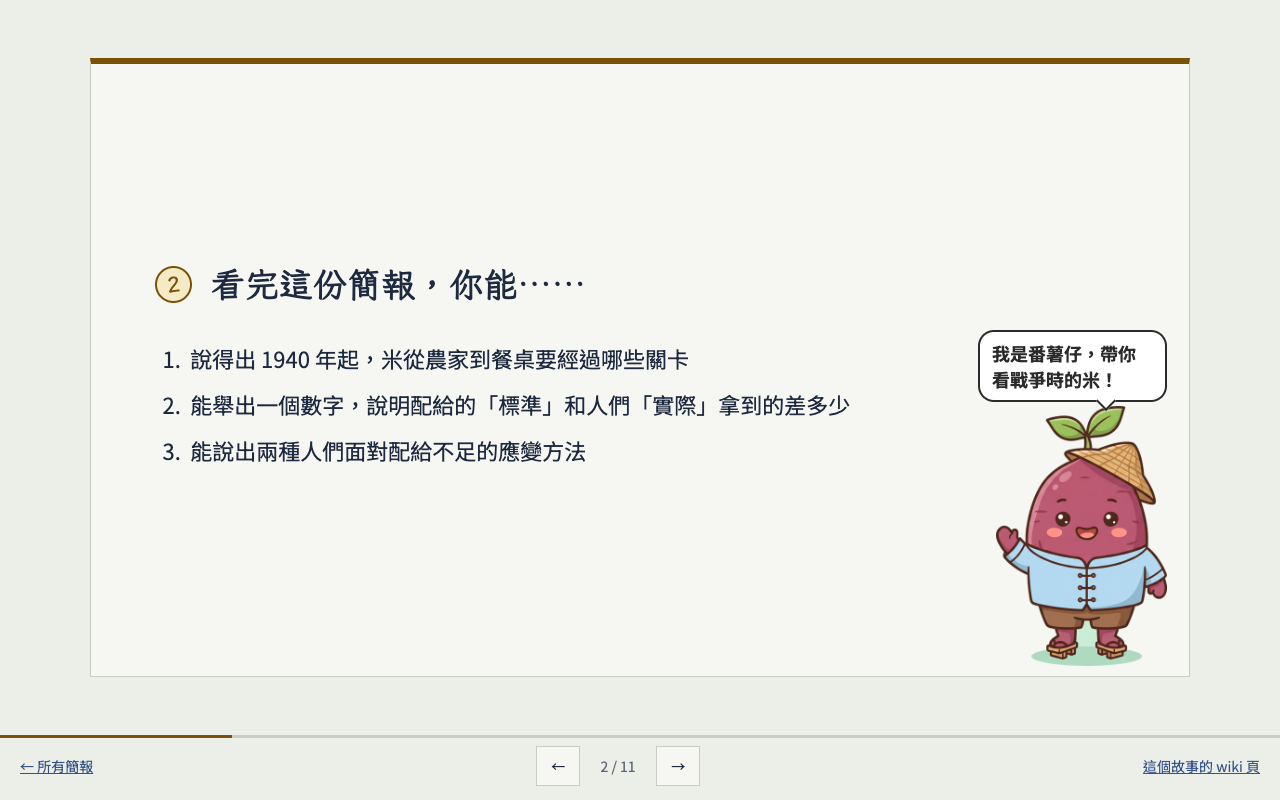
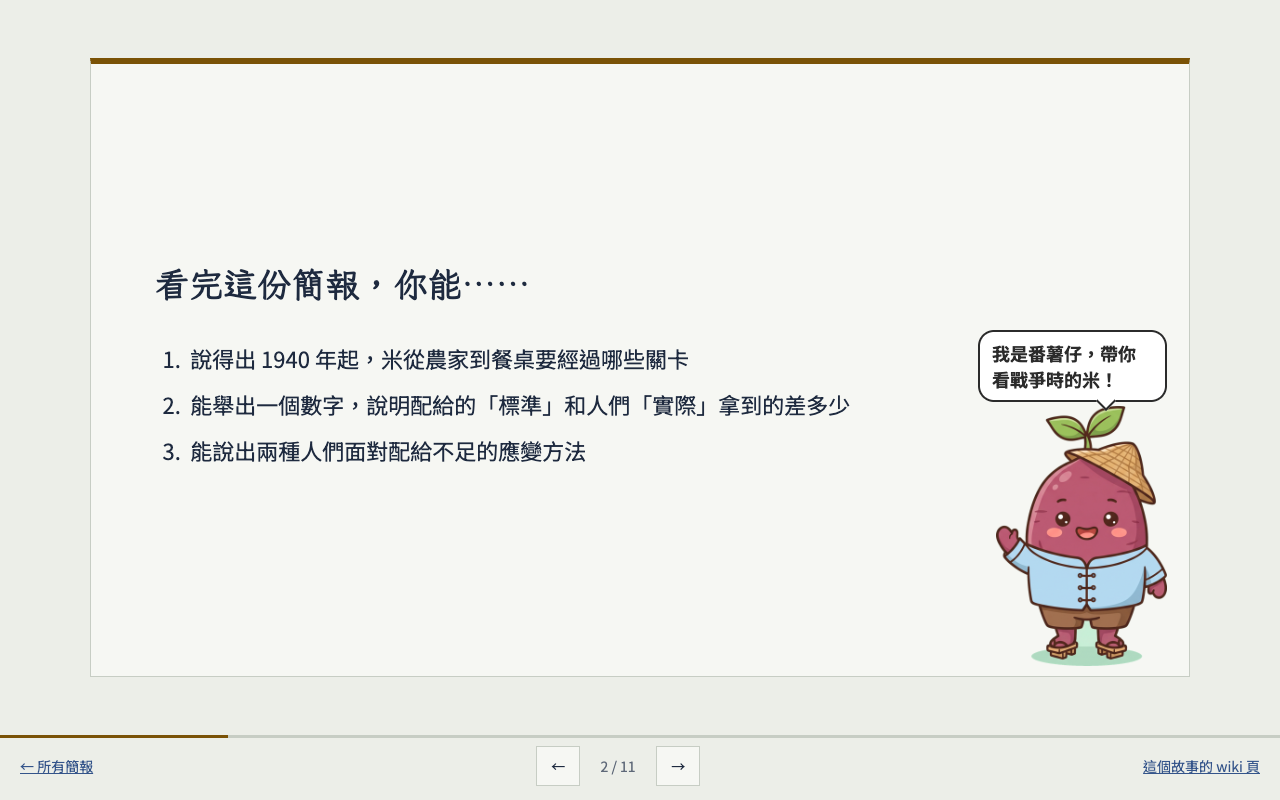
拿掉標題前重複的頁碼印

Changed region(s): [[0.125, 0.3125, 0.4062, 0.375]]

diff --git a/slides/t-rice-ration/deck.html b/slides/t-rice-ration/deck.html
@@ -33,10 +33,6 @@ p{margin:0 0 .7em;max-width:36em} strong{color:var(--cat-ink)}
 .nb{white-space:nowrap}
 .fn{color:var(--indigo);text-decoration:none;padding:0 .08em}
 .fn:hover{text-decoration:underline}
-/* 頁碼印：每頁標題前一個圓形配給印，全份簡報唯一的裝飾 */
-h2{display:flex;align-items:center;gap:.55em}
-h2 .no{flex:none;width:1.75em;height:1.75em;border-radius:50%;border:2px solid var(--cat-ink);color:var(--cat-ink);display:grid;place-items:center;
-  font-size:.62em;font-variant-numeric:tabular-nums;transform:rotate(-8deg);background:color-mix(in srgb,var(--cat-tint) 45%,transparent)}
 /* 資料來源頁 */
 .layout-sources .inner{font-size:clamp(13px,1.25vw,16px);line-height:1.5;justify-content:flex-start;padding:30px 56px}
 .src-hint{color:var(--muted);font-size:.9em;margin-bottom:.9em}
@@ -114,16 +110,16 @@ figcaption{font-size:.8em;color:var(--muted)}
 <body data-cat="rice">
 <main class="deck" id="deck">
 <section class="slide layout-cover" id="p1" aria-label="第 1 頁"><div class="inner"><div class="cover"><div class="ticket"><span class="stub">主</span><div><p class="series">戰時餐桌・故事簡報</p><h1>一天能吃多少米？</h1><p class="sub">1940 年起，農家多的米要交給政府，大家吃的米由政府來分配。</p><p class="meta">臺灣 1939–1945　·　共 10 頁　·　用 ← → 或滑動翻頁</p></div></div><img class="cover-img" src="../../assets/img/t-rice-ration.jpg" alt="木刻版畫風插畫：田邊的收購場，農民挑著稻穀排隊，辦事員用大秤秤重、登記。"></div></div></section>
-<section class="slide layout-goals" data-mascot="../../assets/mascots/sweetpotato/wave.png" data-spot="br" data-say="我是番薯仔，帶你看戰爭時的米！" id="p2" aria-label="第 2 頁"><div class="inner"><h2><span class="no" aria-hidden="true">2</span>看完這份簡報，你能……</h2><ol class='goals'><li>說得出 1940 年起，米從農家到餐桌要經過哪些關卡</li><li>能舉出一個數字，說明配給的「標準」和人們「實際」拿到的差多少</li><li>能說出兩種人們面對配給不足的應變方法</li></ol></div></section>
-<section class="slide layout-text" id="p3" aria-label="第 3 頁"><div class="inner"><h2><span class="no" aria-hidden="true">3</span>為什麼 1940 年開始管米？</h2><p>1939 年朝鮮大旱，隔年朝鮮運到日本的米，從 5,690 千石掉到 395 千石（石是當時量米的容量單位）<span class="nb">。<sup class="fns"><a class="fn" href="#sources" title="李力庸 2009，頁 77">1</a></sup></span></p><p>日本只好要臺灣補上缺口：1940 年臺灣要運出 5,000 千石，比前一年更多<span class="nb">。<sup class="fns"><a class="fn" href="#sources" title="李力庸 2009，頁 77–78">1</a></sup></span></p><p>同年 5 月，臺灣總督府宣布：一期稻作的米全部由政府管理<span class="nb">。<sup class="fns"><a class="fn" href="#sources" title="黃仁姿 2017，頁 46–47">2</a></sup></span></p><p>日本本土要到 10 月才跟進，<strong>殖民地反而比本土早一步</strong><span class="nb">。<sup class="fns"><a class="fn" href="#sources" title="黃仁姿 2017，頁 47">2</a></sup></span></p></div></section>
-<section class="slide layout-text" data-mascot="../../assets/mascots/pig/ticket.png" data-spot="br" data-say="有這張券，才買得到米喔！" id="p4" aria-label="第 4 頁"><div class="inner"><h2><span class="no" aria-hidden="true">4</span>米從田裡到餐桌的關卡</h2><p><strong>收米</strong>：農家扣掉自己要吃的和種子，其餘由政府用公定價格強制收購<span class="nb">。<sup class="fns"><a class="fn" href="#sources" title="曾品滄 2017，頁 9">3</a></sup></span></p><p><strong>綁住</strong>：沒交足規定的量，就領不到配給<span class="nb">。<sup class="fns"><a class="fn" href="#sources" title="曾獻緯 2015，頁 59">4</a></sup></span></p><p><strong>盯著</strong>：經濟警察負責確保糧食配給、限制自由買賣<span class="nb">。<sup class="fns"><a class="fn" href="#sources" title="陸文楓 2025，頁 47">5</a></sup></span></p><p><strong>分米</strong>：1943 年底起，配給交給新成立、專管糧食配給的「台灣食糧營團」，收購由農業會負責<span class="nb">。<sup class="fns"><a class="fn" href="#sources" title="李力庸 2009，頁 97">1</a>,<a class="fn" href="#sources" title="黃仁姿、薛化元 2019，頁 133">6</a></sup></span></p><p><strong>買米</strong>：一般家庭拿著配給券，大約一個月去買兩次米<span class="nb">。<sup class="fns"><a class="fn" href="#sources" title="李力庸 2009，頁 93">1</a></sup></span></p></div></section>
-<section class="slide layout-number" data-mascot="../../assets/mascots/pig/sack.png" data-spot="bl" data-say="辛苦種的米，大部分都要交出去？" id="p5" aria-label="第 5 頁"><div class="inner"><h2><span class="no" aria-hidden="true">5</span>收成的米，有多少要交出去？</h2><p class="big"><span class="stamp-num">85.30%</span><span class="big-label">1944 年，臺灣的米交給政府的比例</span></p><p>這個比例叫「供出率」：交給政府的量，占實際收成的多少<span class="nb">。<sup class="fns"><a class="fn" href="#sources" title="李力庸 2009，頁 94">1</a></sup></span></p><p>同一年，朝鮮是 63.47%，日本本土是 60.46%，<strong>臺灣最高</strong><span class="nb">。<sup class="fns"><a class="fn" href="#sources" title="李力庸 2009，頁 94">1</a></sup></span></p></div></section>
-<section class="slide layout-number" id="p6" aria-label="第 6 頁"><div class="inner"><h2><span class="no" aria-hidden="true">6</span>一般成年人一天配到多少米？</h2><p class="big"><span class="stamp-num">330 公克</span><span class="big-label">1942 年起，一般成年人每天的配給標準（七分搗米）</span></p><p>米的配給量，最初是照營養學家推算的每日所需熱量的<strong>八成</strong>來訂的<span class="nb">。<sup class="fns"><a class="fn" href="#sources" title="曾品滄 2017，頁 10">3</a></sup></span></p><p>工作越重配越多：重勞動者 520 公克，輕勞動者、青少年、孕婦 390 公克<span class="nb">。<sup class="fns"><a class="fn" href="#sources" title="曾品滄 2017，頁 10">3</a></sup></span></p><p>330 公克的七分搗米約是 2 合 3 勺；臺灣用糙米（只去殼、沒碾白的米）計算，就是 <strong>2 合 5 勺</strong><span class="nb">。<sup class="fns"><a class="fn" href="#sources" title="黃仁姿 2017，頁 41 註 17">2</a></sup></span></p></div></section>
-<section class="slide layout-text" data-mascot="../../assets/mascots/rice/bowl.png" data-spot="br" data-say="碗裡的飯，怎麼越來越少……" id="p7" aria-label="第 7 頁"><div class="inner"><h2><span class="no" aria-hidden="true">7</span>標準一路往下砍，實際拿到的更少</h2><p>標準：一般人每天糙米 2 合 5 勺，寫成小數是 2.50 合（「勺」是比「合」小的單位）<span class="nb">。<sup class="fns"><a class="fn" href="#sources" title="黃仁姿 2017，頁 51">2</a>,<a class="fn" href="#sources" title="曾品滄 2017，頁 10">3</a></sup></span></p><p>1940 年 3 月，新竹市把一般人的配給從 2 合 5 勺減成 2 合 2 勺<span class="nb">。<sup class="fns"><a class="fn" href="#sources" title="曾品滄 2017，頁 11">3</a></sup></span></p><p>4 月，澎湖一般人只配 2 合，產米的屏東更只有 1.7 合<span class="nb">。<sup class="fns"><a class="fn" href="#sources" title="曾品滄 2017，頁 11">3</a></sup></span></p><p>1945 年第一期稻作起，連標準也降：一般消費者再減一成五<span class="nb">。<sup class="fns"><a class="fn" href="#sources" title="黃仁姿 2017，頁 50 註 44">2</a></sup></span></p><p>1944 至 1945 年，各地居民實際配到的米常低於二合五勺的標準，<strong>比在臺日本人還少</strong><span class="nb">。<sup class="fns"><a class="fn" href="#sources" title="曾品滄 2013，頁 130">7</a></sup></span></p></div></section>
-<section class="slide layout-compare" id="p8" aria-label="第 8 頁"><div class="inner"><h2><span class="no" aria-hidden="true">8</span>帳面上夠吃，生活裡不夠吃？</h2><div class="compare"><div class="side"><p class="who">一種說法</p><p>歷史學者黃仁姿用統計推算，到 1944 年為止臺灣的米都還有剩，1945 年才不足將近 160 萬石<span class="nb">。<sup class="fns"><a class="fn" href="#sources" title="黃仁姿 2017，頁 64">2</a></sup></span></p></div><div class="side"><p class="who">另一種說法</p><p>歷史學者曾獻緯寫道，配給的食物總是不夠，有時一連幾天用地瓜或麵包代替三餐<span class="nb">。<sup class="fns"><a class="fn" href="#sources" title="曾獻緯 2015，頁 59">4</a></sup></span></p></div></div><p>黃仁姿自己也注意到這個落差：一個月份的配給米，往往只撐二十多天<span class="nb">。<sup class="fns"><a class="fn" href="#sources" title="黃仁姿 2017，頁 65">2</a></sup></span></p><p>米去了哪裡？她推測可能流向軍隊：終戰前在臺陸軍約 30 萬人<span class="nb">。<sup class="fns"><a class="fn" href="#sources" title="黃仁姿 2017，頁 63 註 83">2</a></sup></span></p></div></section>
-<section class="slide layout-text" data-mascot="../../assets/mascots/sweetpotato/pointer.png" data-spot="br" data-say="米不夠，就換番薯上場！" id="p9" aria-label="第 9 頁"><div class="inner"><h2><span class="no" aria-hidden="true">9</span>米不夠吃，大家怎麼辦？</h2><p><strong>吃番薯</strong>：1944 年臺灣的番薯只交出 6.28%，作者推測大家用大量番薯代替米<span class="nb">。<sup class="fns"><a class="fn" href="#sources" title="李力庸 2009，頁 94">1</a></sup></span></p><p>住在臺中霧峰的林獻堂在日記裡寫，配給米減了兩成，「非以蕃薯代用不可」<span class="nb">。<sup class="fns"><a class="fn" href="#sources" title="曾品滄 2017，頁 11–12">3</a></sup></span></p><p><strong>找黑市</strong>：配給米不夠，就透過黑市買，或在飯裡摻番薯籤<span class="nb">。<sup class="fns"><a class="fn" href="#sources" title="黃仁姿 2017，頁 65">2</a></sup></span></p><p><strong>藏起來</strong>：佃農會把粟（稻穀）藏起來。張文環想用義勇報國隊的名義去搜，林獻堂勸他別用這個名義，怕惹人怨恨<span class="nb">。<sup class="fns"><a class="fn" href="#sources" title="陸文楓 2025，頁 53">5</a></sup></span></p><p>義勇報國隊是總督府 1944 年 8 月底打算設立的民兵組織<span class="nb">。<sup class="fns"><a class="fn" href="#sources" title="陸文楓 2025，頁 52">5</a></sup></span></p></div></section>
-<section class="slide layout-check" data-mascot="../../assets/mascots/rice/ask.png" data-spot="bl" data-say="答不出來？回前面找找看！" id="p10" aria-label="第 10 頁"><div class="inner"><h2><span class="no" aria-hidden="true">10</span>自我檢查</h2><ol class='qa'><li><p>戰爭末期（1943 年底以後），一般家庭怎麼拿到米？</p><details><summary>看答案</summary><p>農家的米由政府收購，交給食糧營團配給，家庭拿配給券去買。（第 4 頁）</p></details></li><li><p>1940 年起一般人每天的配給標準是多少？哪裡配得比標準少？</p><details><summary>看答案</summary><p>標準是糙米 2 合 5 勺；1940 年新竹減成 2 合 2 勺，澎湖 2 合，屏東只有 1.7 合。（第 7 頁）</p></details></li><li><p>舉出兩種人們面對配給不足的辦法。</p><details><summary>看答案</summary><p>用番薯代替米、到黑市買、在飯裡摻番薯籤、把稻穀藏起來（任兩種）。（第 9 頁）</p></details></li></ol></div></section>
-<section class="slide layout-sources" id="sources" aria-label="第 11 頁：資料來源"><div class="inner"><h2><span class="no" aria-hidden="true">11</span>資料來源</h2><p class="src-hint">內文句尾的小數字對應這裡的編號；滑鼠停在數字上可看到頁碼。</p><ol class="srcs"><li><span class="src-no">1</span><div><p class="src-t">李力庸（2009）〈日本帝國殖民地的戰時糧食統制體制：臺灣與朝鮮的比較研究（1937-1945）〉</p><p class="src-m">臺灣史研究 16:2（頁 63-104）　這份簡報用到：頁 77、77–78、97、93、94　<a href="https://github.com/YuCecil/wartime-food-wiki/blob/main/wiki/sources/s-2009-li-grain-regulation.md" target="_blank" rel="noopener">資料卡</a></p></div></li><li><span class="src-no">2</span><div><p class="src-t">黃仁姿（2017）〈戰爭與糧食：二戰期間臺灣糧食管理體制的建構（1939-1945）〉</p><p class="src-m">國史館館刊 52（頁 33-72）　這份簡報用到：頁 46–47、47、41 註 17、51、50 註 44、64、65、63 註 83　<a href="https://github.com/YuCecil/wartime-food-wiki/blob/main/wiki/sources/s-2017-huang-wartime-food-management.md" target="_blank" rel="noopener">資料卡</a></p></div></li><li><span class="src-no">3</span><div><p class="src-t">曾品滄（2017）〈餐桌上的戰爭：日治末期臺灣的食物配給、黑市與殖民地社會〉</p><p class="src-m">新史學 28卷4期，頁1–42　這份簡報用到：頁 9、10、11、11–12　<a href="https://github.com/YuCecil/wartime-food-wiki/blob/main/wiki/sources/s-2017-tseng-table-war.md" target="_blank" rel="noopener">資料卡</a></p></div></li><li><span class="src-no">4</span><div><p class="src-t">曾獻緯（2015）〈戰後初期臺灣的糧食管制（1945-1949）〉</p><p class="src-m">臺灣文獻 66:3（頁 53-102）　這份簡報用到：頁 59　<a href="https://github.com/YuCecil/wartime-food-wiki/blob/main/wiki/sources/s-2015-tseng-postwar-food-control.md" target="_blank" rel="noopener">資料卡</a></p></div></li><li><span class="src-no">5</span><div><p class="src-t">陸文楓（2025）〈戰時至接收時期的臺灣警察與社會（1937-1947）〉</p><p class="src-m">中興史學 22（頁 39-95）　這份簡報用到：頁 47、53、52　<a href="https://github.com/YuCecil/wartime-food-wiki/blob/main/wiki/sources/s-2025-lu-police-society.md" target="_blank" rel="noopener">資料卡</a></p></div></li><li><span class="src-no">6</span><div><p class="src-t">黃仁姿、薛化元（2019）〈戰時與戰後初期台灣農業組織的調整與變革（1941-1948）〉</p><p class="src-m">國立政治大學歷史學報 51（頁 121-172）　這份簡報用到：頁 133　<a href="https://github.com/YuCecil/wartime-food-wiki/blob/main/wiki/sources/s-2019-huang-irrigation-farm-org.md" target="_blank" rel="noopener">資料卡</a></p></div></li><li><span class="src-no">7</span><div><p class="src-t">曾品滄（2013）〈鄉土食和山水亭：戰爭期間「臺灣料理」的發展（1937-1945）〉</p><p class="src-m">中國飲食文化 9(1)（頁 113-156）　這份簡報用到：頁 130　<a href="https://github.com/YuCecil/wartime-food-wiki/blob/main/wiki/sources/s-2013-tseng-hometown.md" target="_blank" rel="noopener">資料卡</a></p></div></li></ol></div></section>
+<section class="slide layout-goals" data-mascot="../../assets/mascots/sweetpotato/wave.png" data-spot="br" data-say="我是番薯仔，帶你看戰爭時的米！" id="p2" aria-label="第 2 頁"><div class="inner"><h2>看完這份簡報，你能……</h2><ol class='goals'><li>說得出 1940 年起，米從農家到餐桌要經過哪些關卡</li><li>能舉出一個數字，說明配給的「標準」和人們「實際」拿到的差多少</li><li>能說出兩種人們面對配給不足的應變方法</li></ol></div></section>
+<section class="slide layout-text" id="p3" aria-label="第 3 頁"><div class="inner"><h2>為什麼 1940 年開始管米？</h2><p>1939 年朝鮮大旱，隔年朝鮮運到日本的米，從 5,690 千石掉到 395 千石（石是當時量米的容量單位）<span class="nb">。<sup class="fns"><a class="fn" href="#sources" title="李力庸 2009，頁 77">1</a></sup></span></p><p>日本只好要臺灣補上缺口：1940 年臺灣要運出 5,000 千石，比前一年更多<span class="nb">。<sup class="fns"><a class="fn" href="#sources" title="李力庸 2009，頁 77–78">1</a></sup></span></p><p>同年 5 月，臺灣總督府宣布：一期稻作的米全部由政府管理<span class="nb">。<sup class="fns"><a class="fn" href="#sources" title="黃仁姿 2017，頁 46–47">2</a></sup></span></p><p>日本本土要到 10 月才跟進，<strong>殖民地反而比本土早一步</strong><span class="nb">。<sup class="fns"><a class="fn" href="#sources" title="黃仁姿 2017，頁 47">2</a></sup></span></p></div></section>
+<section class="slide layout-text" data-mascot="../../assets/mascots/pig/ticket.png" data-spot="br" data-say="有這張券，才買得到米喔！" id="p4" aria-label="第 4 頁"><div class="inner"><h2>米從田裡到餐桌的關卡</h2><p><strong>收米</strong>：農家扣掉自己要吃的和種子，其餘由政府用公定價格強制收購<span class="nb">。<sup class="fns"><a class="fn" href="#sources" title="曾品滄 2017，頁 9">3</a></sup></span></p><p><strong>綁住</strong>：沒交足規定的量，就領不到配給<span class="nb">。<sup class="fns"><a class="fn" href="#sources" title="曾獻緯 2015，頁 59">4</a></sup></span></p><p><strong>盯著</strong>：經濟警察負責確保糧食配給、限制自由買賣<span class="nb">。<sup class="fns"><a class="fn" href="#sources" title="陸文楓 2025，頁 47">5</a></sup></span></p><p><strong>分米</strong>：1943 年底起，配給交給新成立、專管糧食配給的「台灣食糧營團」，收購由農業會負責<span class="nb">。<sup class="fns"><a class="fn" href="#sources" title="李力庸 2009，頁 97">1</a>,<a class="fn" href="#sources" title="黃仁姿、薛化元 2019，頁 133">6</a></sup></span></p><p><strong>買米</strong>：一般家庭拿著配給券，大約一個月去買兩次米<span class="nb">。<sup class="fns"><a class="fn" href="#sources" title="李力庸 2009，頁 93">1</a></sup></span></p></div></section>
+<section class="slide layout-number" data-mascot="../../assets/mascots/pig/sack.png" data-spot="bl" data-say="辛苦種的米，大部分都要交出去？" id="p5" aria-label="第 5 頁"><div class="inner"><h2>收成的米，有多少要交出去？</h2><p class="big"><span class="stamp-num">85.30%</span><span class="big-label">1944 年，臺灣的米交給政府的比例</span></p><p>這個比例叫「供出率」：交給政府的量，占實際收成的多少<span class="nb">。<sup class="fns"><a class="fn" href="#sources" title="李力庸 2009，頁 94">1</a></sup></span></p><p>同一年，朝鮮是 63.47%，日本本土是 60.46%，<strong>臺灣最高</strong><span class="nb">。<sup class="fns"><a class="fn" href="#sources" title="李力庸 2009，頁 94">1</a></sup></span></p></div></section>
+<section class="slide layout-number" id="p6" aria-label="第 6 頁"><div class="inner"><h2>一般成年人一天配到多少米？</h2><p class="big"><span class="stamp-num">330 公克</span><span class="big-label">1942 年起，一般成年人每天的配給標準（七分搗米）</span></p><p>米的配給量，最初是照營養學家推算的每日所需熱量的<strong>八成</strong>來訂的<span class="nb">。<sup class="fns"><a class="fn" href="#sources" title="曾品滄 2017，頁 10">3</a></sup></span></p><p>工作越重配越多：重勞動者 520 公克，輕勞動者、青少年、孕婦 390 公克<span class="nb">。<sup class="fns"><a class="fn" href="#sources" title="曾品滄 2017，頁 10">3</a></sup></span></p><p>330 公克的七分搗米約是 2 合 3 勺；臺灣用糙米（只去殼、沒碾白的米）計算，就是 <strong>2 合 5 勺</strong><span class="nb">。<sup class="fns"><a class="fn" href="#sources" title="黃仁姿 2017，頁 41 註 17">2</a></sup></span></p></div></section>
+<section class="slide layout-text" data-mascot="../../assets/mascots/rice/bowl.png" data-spot="br" data-say="碗裡的飯，怎麼越來越少……" id="p7" aria-label="第 7 頁"><div class="inner"><h2>標準一路往下砍，實際拿到的更少</h2><p>標準：一般人每天糙米 2 合 5 勺，寫成小數是 2.50 合（「勺」是比「合」小的單位）<span class="nb">。<sup class="fns"><a class="fn" href="#sources" title="黃仁姿 2017，頁 51">2</a>,<a class="fn" href="#sources" title="曾品滄 2017，頁 10">3</a></sup></span></p><p>1940 年 3 月，新竹市把一般人的配給從 2 合 5 勺減成 2 合 2 勺<span class="nb">。<sup class="fns"><a class="fn" href="#sources" title="曾品滄 2017，頁 11">3</a></sup></span></p><p>4 月，澎湖一般人只配 2 合，產米的屏東更只有 1.7 合<span class="nb">。<sup class="fns"><a class="fn" href="#sources" title="曾品滄 2017，頁 11">3</a></sup></span></p><p>1945 年第一期稻作起，連標準也降：一般消費者再減一成五<span class="nb">。<sup class="fns"><a class="fn" href="#sources" title="黃仁姿 2017，頁 50 註 44">2</a></sup></span></p><p>1944 至 1945 年，各地居民實際配到的米常低於二合五勺的標準，<strong>比在臺日本人還少</strong><span class="nb">。<sup class="fns"><a class="fn" href="#sources" title="曾品滄 2013，頁 130">7</a></sup></span></p></div></section>
+<section class="slide layout-compare" id="p8" aria-label="第 8 頁"><div class="inner"><h2>帳面上夠吃，生活裡不夠吃？</h2><div class="compare"><div class="side"><p class="who">一種說法</p><p>歷史學者黃仁姿用統計推算，到 1944 年為止臺灣的米都還有剩，1945 年才不足將近 160 萬石<span class="nb">。<sup class="fns"><a class="fn" href="#sources" title="黃仁姿 2017，頁 64">2</a></sup></span></p></div><div class="side"><p class="who">另一種說法</p><p>歷史學者曾獻緯寫道，配給的食物總是不夠，有時一連幾天用地瓜或麵包代替三餐<span class="nb">。<sup class="fns"><a class="fn" href="#sources" title="曾獻緯 2015，頁 59">4</a></sup></span></p></div></div><p>黃仁姿自己也注意到這個落差：一個月份的配給米，往往只撐二十多天<span class="nb">。<sup class="fns"><a class="fn" href="#sources" title="黃仁姿 2017，頁 65">2</a></sup></span></p><p>米去了哪裡？她推測可能流向軍隊：終戰前在臺陸軍約 30 萬人<span class="nb">。<sup class="fns"><a class="fn" href="#sources" title="黃仁姿 2017，頁 63 註 83">2</a></sup></span></p></div></section>
+<section class="slide layout-text" data-mascot="../../assets/mascots/sweetpotato/pointer.png" data-spot="br" data-say="米不夠，就換番薯上場！" id="p9" aria-label="第 9 頁"><div class="inner"><h2>米不夠吃，大家怎麼辦？</h2><p><strong>吃番薯</strong>：1944 年臺灣的番薯只交出 6.28%，作者推測大家用大量番薯代替米<span class="nb">。<sup class="fns"><a class="fn" href="#sources" title="李力庸 2009，頁 94">1</a></sup></span></p><p>住在臺中霧峰的林獻堂在日記裡寫，配給米減了兩成，「非以蕃薯代用不可」<span class="nb">。<sup class="fns"><a class="fn" href="#sources" title="曾品滄 2017，頁 11–12">3</a></sup></span></p><p><strong>找黑市</strong>：配給米不夠，就透過黑市買，或在飯裡摻番薯籤<span class="nb">。<sup class="fns"><a class="fn" href="#sources" title="黃仁姿 2017，頁 65">2</a></sup></span></p><p><strong>藏起來</strong>：佃農會把粟（稻穀）藏起來。張文環想用義勇報國隊的名義去搜，林獻堂勸他別用這個名義，怕惹人怨恨<span class="nb">。<sup class="fns"><a class="fn" href="#sources" title="陸文楓 2025，頁 53">5</a></sup></span></p><p>義勇報國隊是總督府 1944 年 8 月底打算設立的民兵組織<span class="nb">。<sup class="fns"><a class="fn" href="#sources" title="陸文楓 2025，頁 52">5</a></sup></span></p></div></section>
+<section class="slide layout-check" data-mascot="../../assets/mascots/rice/ask.png" data-spot="bl" data-say="答不出來？回前面找找看！" id="p10" aria-label="第 10 頁"><div class="inner"><h2>自我檢查</h2><ol class='qa'><li><p>戰爭末期（1943 年底以後），一般家庭怎麼拿到米？</p><details><summary>看答案</summary><p>農家的米由政府收購，交給食糧營團配給，家庭拿配給券去買。（第 4 頁）</p></details></li><li><p>1940 年起一般人每天的配給標準是多少？哪裡配得比標準少？</p><details><summary>看答案</summary><p>標準是糙米 2 合 5 勺；1940 年新竹減成 2 合 2 勺，澎湖 2 合，屏東只有 1.7 合。（第 7 頁）</p></details></li><li><p>舉出兩種人們面對配給不足的辦法。</p><details><summary>看答案</summary><p>用番薯代替米、到黑市買、在飯裡摻番薯籤、把稻穀藏起來（任兩種）。（第 9 頁）</p></details></li></ol></div></section>
+<section class="slide layout-sources" id="sources" aria-label="第 11 頁：資料來源"><div class="inner"><h2>資料來源</h2><p class="src-hint">內文句尾的小數字對應這裡的編號；滑鼠停在數字上可看到頁碼。</p><ol class="srcs"><li><span class="src-no">1</span><div><p class="src-t">李力庸（2009）〈日本帝國殖民地的戰時糧食統制體制：臺灣與朝鮮的比較研究（1937-1945）〉</p><p class="src-m">臺灣史研究 16:2（頁 63-104）　這份簡報用到：頁 77、77–78、97、93、94　<a href="https://github.com/YuCecil/wartime-food-wiki/blob/main/wiki/sources/s-2009-li-grain-regulation.md" target="_blank" rel="noopener">資料卡</a></p></div></li><li><span class="src-no">2</span><div><p class="src-t">黃仁姿（2017）〈戰爭與糧食：二戰期間臺灣糧食管理體制的建構（1939-1945）〉</p><p class="src-m">國史館館刊 52（頁 33-72）　這份簡報用到：頁 46–47、47、41 註 17、51、50 註 44、64、65、63 註 83　<a href="https://github.com/YuCecil/wartime-food-wiki/blob/main/wiki/sources/s-2017-huang-wartime-food-management.md" target="_blank" rel="noopener">資料卡</a></p></div></li><li><span class="src-no">3</span><div><p class="src-t">曾品滄（2017）〈餐桌上的戰爭：日治末期臺灣的食物配給、黑市與殖民地社會〉</p><p class="src-m">新史學 28卷4期，頁1–42　這份簡報用到：頁 9、10、11、11–12　<a href="https://github.com/YuCecil/wartime-food-wiki/blob/main/wiki/sources/s-2017-tseng-table-war.md" target="_blank" rel="noopener">資料卡</a></p></div></li><li><span class="src-no">4</span><div><p class="src-t">曾獻緯（2015）〈戰後初期臺灣的糧食管制（1945-1949）〉</p><p class="src-m">臺灣文獻 66:3（頁 53-102）　這份簡報用到：頁 59　<a href="https://github.com/YuCecil/wartime-food-wiki/blob/main/wiki/sources/s-2015-tseng-postwar-food-control.md" target="_blank" rel="noopener">資料卡</a></p></div></li><li><span class="src-no">5</span><div><p class="src-t">陸文楓（2025）〈戰時至接收時期的臺灣警察與社會（1937-1947）〉</p><p class="src-m">中興史學 22（頁 39-95）　這份簡報用到：頁 47、53、52　<a href="https://github.com/YuCecil/wartime-food-wiki/blob/main/wiki/sources/s-2025-lu-police-society.md" target="_blank" rel="noopener">資料卡</a></p></div></li><li><span class="src-no">6</span><div><p class="src-t">黃仁姿、薛化元（2019）〈戰時與戰後初期台灣農業組織的調整與變革（1941-1948）〉</p><p class="src-m">國立政治大學歷史學報 51（頁 121-172）　這份簡報用到：頁 133　<a href="https://github.com/YuCecil/wartime-food-wiki/blob/main/wiki/sources/s-2019-huang-irrigation-farm-org.md" target="_blank" rel="noopener">資料卡</a></p></div></li><li><span class="src-no">7</span><div><p class="src-t">曾品滄（2013）〈鄉土食和山水亭：戰爭期間「臺灣料理」的發展（1937-1945）〉</p><p class="src-m">中國飲食文化 9(1)（頁 113-156）　這份簡報用到：頁 130　<a href="https://github.com/YuCecil/wartime-food-wiki/blob/main/wiki/sources/s-2013-tseng-hometown.md" target="_blank" rel="noopener">資料卡</a></p></div></li></ol></div></section>
 </main>
 <div class="progress" aria-hidden="true"><span id="prog"></span></div>
 <nav class="bar" aria-label="翻頁">

diff --git a/templates/deck.html b/templates/deck.html
@@ -33,10 +33,6 @@ p{margin:0 0 .7em;max-width:36em} strong{color:var(--cat-ink)}
 .nb{white-space:nowrap}
 .fn{color:var(--indigo);text-decoration:none;padding:0 .08em}
 .fn:hover{text-decoration:underline}
-/* 頁碼印：每頁標題前一個圓形配給印，全份簡報唯一的裝飾 */
-h2{display:flex;align-items:center;gap:.55em}
-h2 .no{flex:none;width:1.75em;height:1.75em;border-radius:50%;border:2px solid var(--cat-ink);color:var(--cat-ink);display:grid;place-items:center;
-  font-size:.62em;font-variant-numeric:tabular-nums;transform:rotate(-8deg);background:color-mix(in srgb,var(--cat-tint) 45%,transparent)}
 /* 資料來源頁 */
 .layout-sources .inner{font-size:clamp(13px,1.25vw,16px);line-height:1.5;justify-content:flex-start;padding:30px 56px}
 .src-hint{color:var(--muted);font-size:.9em;margin-bottom:.9em}

diff --git a/tools/slides.py b/tools/slides.py
@@ -431,7 +431,6 @@ def cmd_build(tid):
             say = mz[0].split("｜", 1)[1].strip() if "｜" in mz[0] else ""
             if say: mattr += f' data-say="{html.escape(say)}"'
         inner = ""
-        stamp = f'<span class="no" aria-hidden="true">{p["n"]}</span>'
         if L == "cover":
             sub = html.escape(plain(get("副標：")[0])) if get("副標：") else ""
             pic = f'<img class="cover-img" src="../../assets/img/{img}" alt="{html.escape(str(meta.get("imageAlt", "")))}">' if img else ""
@@ -441,7 +440,7 @@ def cmd_build(tid):
         elif L == "goals":
             items = "".join(f"<li>{html.escape(plain(l))}</li>" for l in lines if re.match(r"^(- |\d+\.)", l))
             other = "".join(f"<p>{html.escape(plain(l))}</p>" for l in lines if not re.match(r"^(- |\d+\.)", l))
-            inner = f"<h2>{stamp}{title}</h2>{other}<ol class='goals'>{items}</ol>"
+            inner = f"<h2>{title}</h2>{other}<ol class='goals'>{items}</ol>"
         elif L == "check":
             qa, q = [], None
             for l in lines:
@@ -449,7 +448,7 @@ def cmd_build(tid):
                     q = l
                 elif l.startswith("答案：") and q:
                     qa.append(f"<li><p>{html.escape(plain(q))}</p><details><summary>看答案</summary><p>{html.escape(plain(l))}</p></details></li>")
-            inner = f"<h2>{stamp}{title}</h2><ol class='qa'>{''.join(qa)}</ol>"
+            inner = f"<h2>{title}</h2><ol class='qa'>{''.join(qa)}</ol>"
         else:
             body = ""
             if L == "number" and get("大數字："):
@@ -468,7 +467,7 @@ def cmd_build(tid):
                         f"<figcaption>{html.escape(cap.strip())}</figcaption></figure>") + body
             if L == "quote":
                 body = f"<blockquote>{body}</blockquote>"
-            inner = f"<h2>{stamp}{title}</h2>{body}"
+            inner = f"<h2>{title}</h2>{body}"
         secs.append(f'<section class="slide layout-{L}"{mattr} id="p{p["n"]}" aria-label="第 {p["n"]} 頁"><div class="inner">{inner}</div></section>')
     if num:  # 最後一頁：資料來源（不算在 8–10 頁的內容頁裡）
         items = []
@@ -480,7 +479,7 @@ def cmd_build(tid):
                          f'　<a href="{GITHUB}wiki/sources/{s}.md" target="_blank" rel="noopener">資料卡</a></p></div></li>')
         n = len(pages) + 1
         secs.append(f'<section class="slide layout-sources" id="sources" aria-label="第 {n} 頁：資料來源"><div class="inner">'
-                    f'<h2><span class="no" aria-hidden="true">{n}</span>資料來源</h2><p class="src-hint">內文句尾的小數字對應這裡的編號；滑鼠停在數字上可看到頁碼。</p><ol class="srcs">{"".join(items)}</ol></div></section>')
+                    f'<h2>資料來源</h2><p class="src-hint">內文句尾的小數字對應這裡的編號；滑鼠停在數字上可看到頁碼。</p><ol class="srcs">{"".join(items)}</ol></div></section>')
     total = len(secs)
     tpl = (ROOT / "templates/deck.html").read_text(encoding="utf-8")
     out = (tpl.replace("{{TITLE}}", html.escape(meta["title"])).replace("{{CAT}}", cat)

diff --git a/wiki/log.md b/wiki/log.md
@@ -75,3 +75,4 @@
 - 改為句尾小上標編號（同一份資料整份簡報同一號，滑鼠停留顯示作者、年份、頁碼），點了跳到最後一頁「資料來源」：列出每份資料的書目、這份簡報用到的頁碼、wiki 資料卡連結。逐頁稿仍然每句標 [s-...#E..]，檢查不變，只改顯示
 - 用 frontend-design 調整版面：每頁標題前加圓形「配給印」頁碼（呼應封面配給券），其他維持安靜；段落行寬縮到 36em
 - 資料來源頁第一次排成一欄時溢出，渲染檢查擋下，改兩欄
+- 同日修正：使用者覺得標題前的頁碼印沒有作用（下方已有頁碼），拿掉
